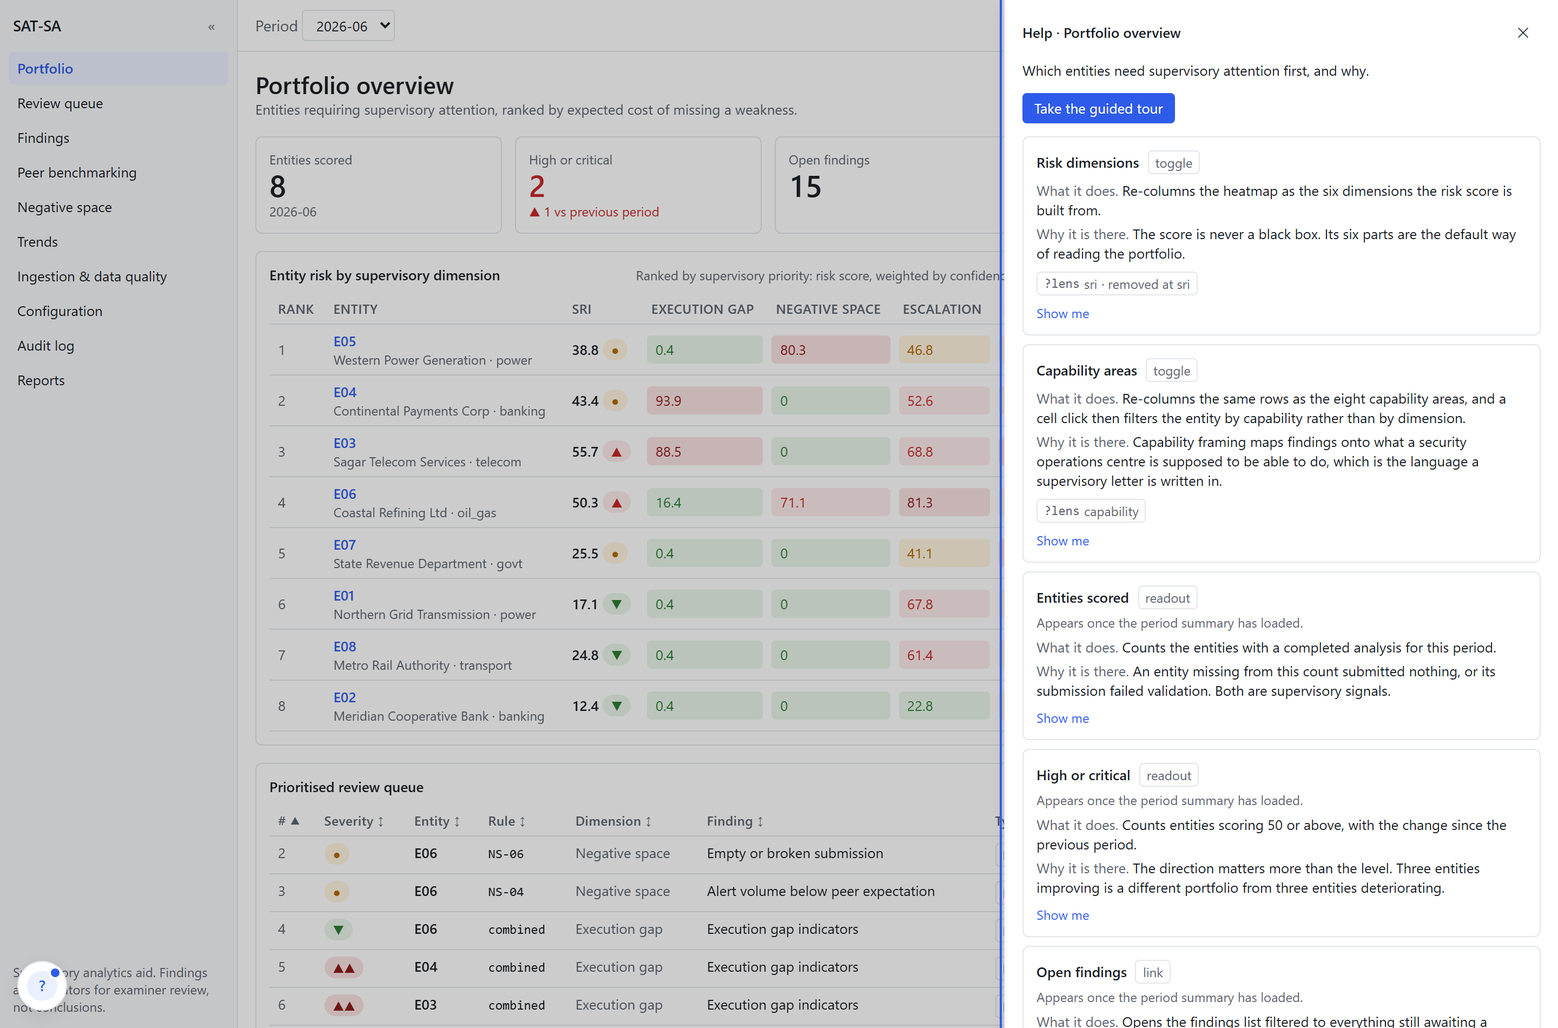
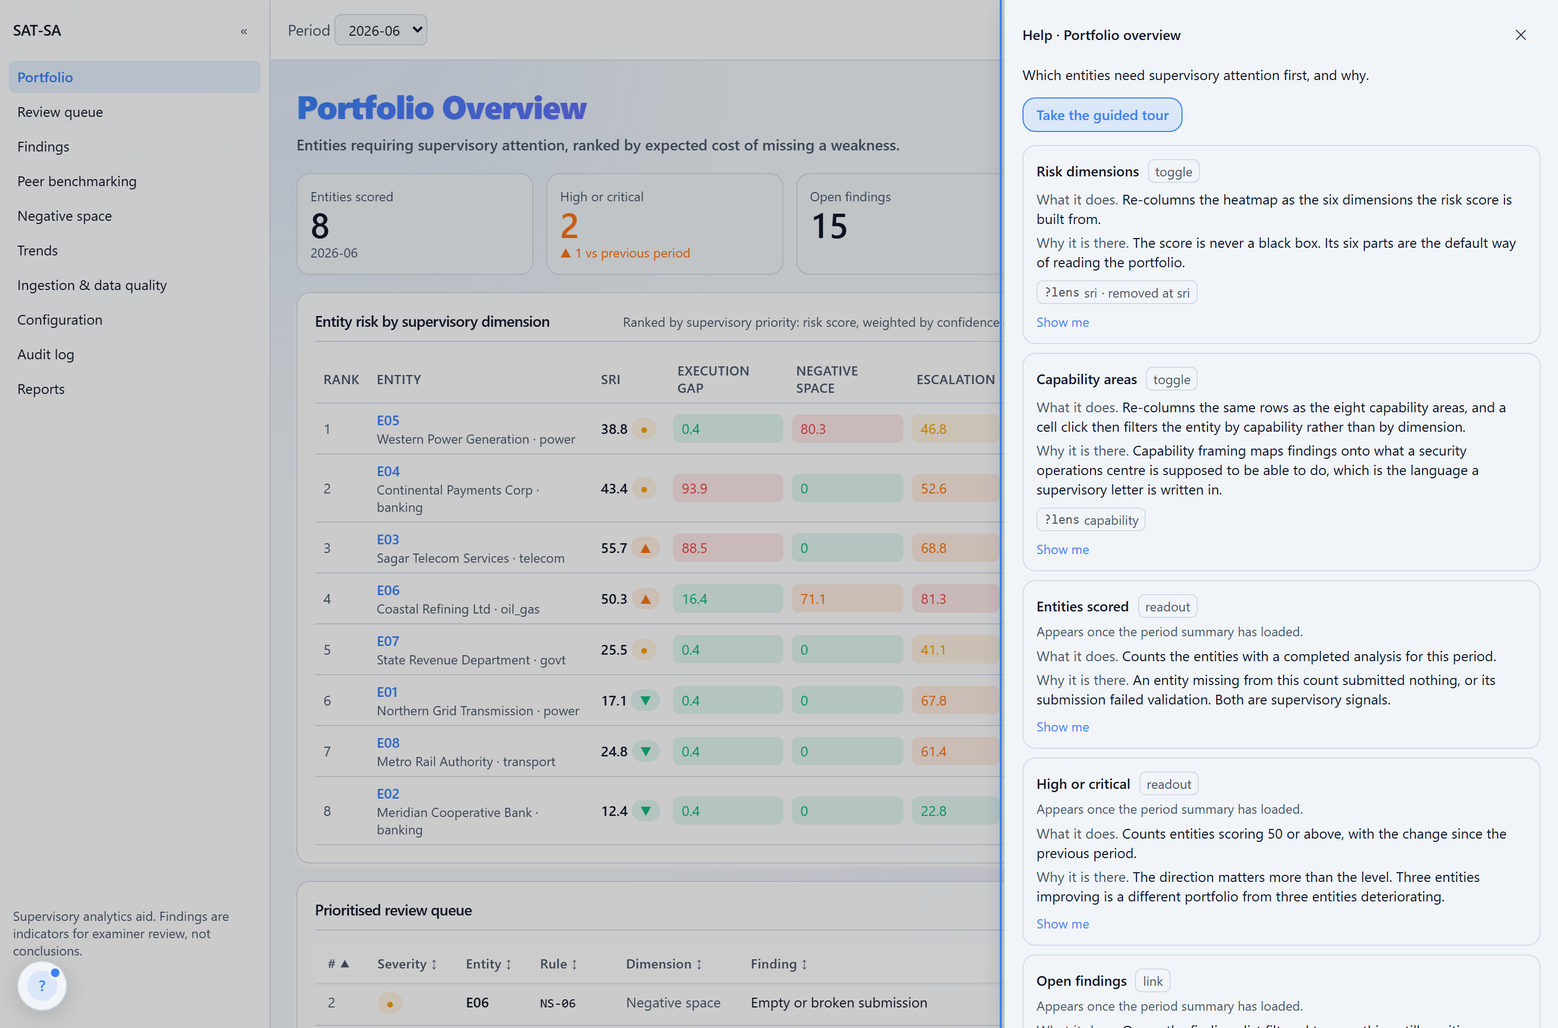
docs: regenerate every screenshot against the redesigned UI  The images predated the glassmorphic redesign, the theme switcher and the light-mode contrast fix, so all fourteen are re-shot from the running application.  Two defects surfaced while re-shooting, both fixed:  - Back stranded you when the

diff --git a/dashboard/src/guide/tours.ts b/dashboard/src/guide/tours.ts
@@ -60,35 +60,35 @@ export const TOURS: readonly TourDefinition[] = [
       // ---- portfolio -----------------------------------------------------------------
       {
         anchor: "global.period",
-        title: "Everything belongs to a period",
-        body: "Entities submit their records on a cycle, and the whole screen answers for one of them. This selector is global: it follows you between screens, so any two screens are always about the same submission.",
-        note: "It writes the period into the address bar rather than into component state, so every view is a shareable link and the browser back button works.",
+        title: "Time Period",
+        body: "Every piece of data belongs to a specific month or quarter.",
+        note: "This drop-down stays with you as you move around. Change it here, and the whole app instantly travels to that time period.",
         routePattern: "/portfolio",
         before: [{ type: "navigate", to: "/portfolio" }],
         prefer: ["bottom"],
       },
       {
         anchor: "portfolio.heatmap",
-        title: "Who needs attention first",
-        body: "One row per entity, ordered by supervisory priority rather than by raw score, with a cell per risk dimension. Every cell prints its number as well as its colour.",
-        note: "Priority combines the risk score with the confidence in it and with how much the entity matters by sector and size, so a high score computed from thin data ranks below a moderate one computed from full data.",
+        title: "Who needs help first?",
+        body: "This shows a list of companies. The ones at the top have the biggest security problems.",
+        note: "We rank them by how sure we are about the problem, not just raw scores. A huge problem with solid proof goes to the very top.",
         routePattern: "/portfolio",
         onMissing: "skip",
         prefer: ["top"],
       },
       {
         anchor: "portfolio.lens-capability",
-        title: "Two ways to read the same portfolio",
-        body: "The columns are the six dimensions of the risk score by default. Switch to capability areas and the same entities are re-columned into what a security operations centre is supposed to be able to do.",
-        note: "Every rule is mapped to both a risk dimension and a capability area, so one set of findings supports both framings without recomputing anything.",
+        title: "Two ways to look",
+        body: "You can view these scores by 'Risk Category' or by 'Security Capability'.",
+        note: "Just toggle this button to see the exact same data from a different perspective, without reloading anything.",
         routePattern: "/portfolio",
         prefer: ["bottom", "left"],
       },
       {
         anchor: "portfolio.tile-uncertain",
-        title: "The decisions the tool refuses to make",
-        body: "Findings whose probability lands inside the band around the decision threshold are never decided automatically. This count is the honest measure of how much examiner time the period needs.",
-        note: "The threshold comes from what the two mistakes cost, false-positive cost over the sum of both costs, with a fixed band either side of it. Anything inside that band is routed to a human by design.",
+        title: "Borderline cases",
+        body: "Sometimes the AI isn't 100% sure. We call these 'Uncertain' cases.",
+        note: "Instead of guessing, the system flags these borderline cases so a human expert can look at them closely.",
         routePattern: "/portfolio",
         onMissing: "skip",
         prefer: ["bottom"],
@@ -97,9 +97,9 @@ export const TOURS: readonly TourDefinition[] = [
       // ---- entity --------------------------------------------------------------------
       {
         anchor: "entity.sri-table",
-        title: "The score, taken apart",
-        body: "Score, weight and contribution for each dimension, adding up to the total in the heading. You can check the arithmetic by hand. Clicking a row filters the findings below to that dimension.",
-        note: "A plain weighted sum, deliberately, so no part of the headline number is hidden inside a model. The weights live in configuration and are hashed into every run that uses them.",
+        title: "How the score is made",
+        body: "This breaks down exactly how we calculated the final risk score for this company.",
+        note: "We don't hide the math! You can see all the weights and scores adding up perfectly right here.",
         routePattern: "/entities/:entityId",
         before: [{ type: "click", anchor: "portfolio.heatmap-cell" }],
         onMissing: "wait",
@@ -107,9 +107,9 @@ export const TOURS: readonly TourDefinition[] = [
       },
       {
         anchor: "entity.peer-chart",
-        title: "Compared with its peers",
-        body: "Where this entity sits among comparable entities for the chosen metric. A raw value means little on its own; its position among peers is the supervisory question.",
-        note: "Peers are the same sector and size band, widening to sector then to the whole portfolio when too few exist. Comparisons use the median and median absolute deviation, so one outlier cannot move the baseline it is judged against.",
+        title: "Grading on a curve",
+        body: "A score doesn't mean much on its own. This chart shows how this company compares to similar companies.",
+        note: "If a company is doing badly, but everyone else in their industry is also doing badly, you'll see that context here.",
         routePattern: "/entities/:entityId",
         onMissing: "skip",
         prefer: ["left", "bottom"],
@@ -118,13 +118,11 @@ export const TOURS: readonly TourDefinition[] = [
       // ---- finding -------------------------------------------------------------------
       {
         anchor: "finding.threshold",
-        title: "A decision is a position on a line",
-        body: "The threshold, the band handed to a human, and this finding's probability marked on it, so you can see how close to the boundary it fell.",
-        note: "Cost-derived rather than tuned. Missing a real weakness is costed higher than an unnecessary review, which pushes the threshold down and makes the tool favour catching things.",
+        title: "The decision line",
+        body: "This line shows exactly why a problem was flagged.",
+        note: "If a dot lands far to the right, it's a huge problem. If it lands near the middle band, we ask a human to double-check it.",
         routePattern: "/findings/:findingId",
         before: [
-          // The heatmap cell arrives with a dimension filter set, which can leave the
-          // findings table empty. Clear it before asking for the top row.
           { type: "setParam", key: "dimension" },
           { type: "setParam", key: "capability" },
           { type: "click", anchor: "entity.findings-first-row" },
@@ -134,18 +132,18 @@ export const TOURS: readonly TourDefinition[] = [
       },
       {
         anchor: "finding.tab-records",
-        title: "Down to the actual alerts",
-        body: "Portfolio, entity, finding, and here are the individual records underneath the claim, each traceable to the line it came from in the submitted file.",
-        note: "Findings store the alert ids they rest on, and every ingested row keeps its source line number, so nothing is asserted that cannot be traced back.",
+        title: "Show me the proof",
+        body: "Don't just trust the AI! Click here to see the raw, original logs submitted by the company.",
+        note: "Every single claim the system makes can be traced back to these exact log files.",
         routePattern: "/findings/:findingId",
         interactive: true,
         prefer: ["bottom"],
       },
       {
         anchor: "finding.feedback",
-        title: "The examiner decides, and the tool learns",
-        body: "Accept, reject or defer with a comment. The tool is an aid, not an authority.",
-        note: "Decisions are appended and never overwritten, so the record shows what was thought and when. They are also the labels that calibrate raw model scores into probabilities.",
+        title: "You are the boss",
+        body: "Do you disagree with the AI? Tell it by clicking Reject.",
+        note: "When you reject a finding, the system actually learns from your choice so it won't make the same mistake next month.",
         routePattern: "/findings/:findingId",
         prefer: ["top", "bottom"],
       },
@@ -153,9 +151,9 @@ export const TOURS: readonly TourDefinition[] = [
       // ---- queue ---------------------------------------------------------------------
       {
         anchor: "queue.table",
-        title: "What to examine next",
-        body: "Alerts selected for manual inspection, in rank order, with the rules that flagged each one.",
-        note: "Ranked by expected cost, the probability multiplied by the cost of missing it, so the top of the list is where the next hour of examiner time pays back most. Sampling is round-robin across rules, so every kind of weakness is represented rather than the loudest one filling the list.",
+        title: "Your To-Do List",
+        body: "This is a prioritized list of exact alerts you need to review manually.",
+        note: "The most important and borderline cases are pushed to the very top so you don't waste time on obvious stuff.",
         routePattern: "/queue",
         before: [{ type: "navigate", to: "/queue" }],
         onMissing: "skip",
@@ -163,9 +161,9 @@ export const TOURS: readonly TourDefinition[] = [
       },
       {
         anchor: "queue.scope-control",
-        title: "Entities, alerts, or processes",
-        body: "The same queue at three grains. Controls and processes groups findings by the control they implicate and sums the expected cost of each group.",
-        note: "Often the most useful supervisory output is not an entity but a process: one control failing across several entities at once.",
+        title: "Zoom out",
+        body: "You can view your To-Do list by individual alerts, or group them by Companies and Processes.",
+        note: "Sometimes seeing that a specific process is failing across five different companies is the most useful insight.",
         routePattern: "/queue",
         prefer: ["bottom"],
       },
@@ -173,9 +171,9 @@ export const TOURS: readonly TourDefinition[] = [
       // ---- peer ----------------------------------------------------------------------
       {
         anchor: "peer.chart",
-        title: "The whole peer group at once",
-        body: "Every entity in the group plotted for one metric, with the median and the tenth to ninetieth percentile band, and the selected entity marked.",
-        note: "The line underneath names which peer group was used and how it was chosen, because a comparison against three peers is worth less than one against thirty and should not be able to hide that.",
+        title: "The Big Picture",
+        body: "See how an entire industry is performing at a single glance.",
+        note: "The selected company is highlighted so you can see exactly where they sit compared to their peers.",
         routePattern: "/peer",
         before: [{ type: "navigate", to: "/peer" }],
         onMissing: "skip",
@@ -185,9 +183,9 @@ export const TOURS: readonly TourDefinition[] = [
       // ---- coverage ------------------------------------------------------------------
       {
         anchor: "coverage.matrix",
-        title: "Evidence that should be there and is not",
-        body: "One row per entity, one column per expected item. Absent cells are hatched and labelled, never colour alone. The totals down the right and along the bottom are the point.",
-        note: "This is the harder half of the problem. An execution gap leaves bad records behind, but negative space leaves nothing on screen to look at. Expectation is derived from the entity's own asset inventory, from its sector, and from what its peers actually report.",
+        title: "What is missing?",
+        body: "This looks for alerts that SHOULD exist, but don't. Missing cells are marked with lines.",
+        note: "If a bank has servers but reports zero server alerts all month, this page will catch that silence.",
         routePattern: "/coverage",
         before: [{ type: "navigate", to: "/coverage" }],
         onMissing: "skip",
@@ -197,9 +195,9 @@ export const TOURS: readonly TourDefinition[] = [
       // ---- trends --------------------------------------------------------------------
       {
         anchor: "trends.sri-chart",
-        title: "Movement across periods",
-        body: "Risk over successive submissions, per entity, against the dashed sector median.",
-        note: "One period is a snapshot. A weakness that appears and then persists is a different matter from a single bad month, and against a rising median a flat entity is falling behind.",
+        title: "Getting better or worse?",
+        body: "This chart tracks a company's risk over many months.",
+        note: "A single bad month is okay, but a line that keeps going up means the company is slowly falling apart.",
         routePattern: "/trends",
         before: [{ type: "navigate", to: "/trends" }],
         onMissing: "skip",
@@ -209,9 +207,9 @@ export const TOURS: readonly TourDefinition[] = [
       // ---- ingestion -----------------------------------------------------------------
       {
         anchor: "ingestion.submissions",
-        title: "Dirty data is itself a finding",
-        body: "Every submission with its format, row counts and error and warning rates. A row expands to show which checks fired and on which rows.",
-        note: "Thirteen validation checks run on ingest and their results are recorded rather than merely rejected. The error and warning rates become features, because an entity that cannot produce clean records is telling you something about its operation.",
+        title: "Messy data is a red flag",
+        body: "If a company submits broken or sloppy data, we don't throw it away.",
+        note: "We actually penalize them for it! You can see exactly how many errors their files had right here.",
         routePattern: "/ingestion",
         before: [{ type: "navigate", to: "/ingestion" }],
         onMissing: "skip",
@@ -219,9 +217,9 @@ export const TOURS: readonly TourDefinition[] = [
       },
       {
         anchor: "ingestion.run",
-        title: "Batch, and only when asked",
-        body: "Starts the analysis for the selected period and reports each stage as it completes.",
-        note: "There is no scheduler and no continuous collection anywhere in the tool. That is the boundary between supervising a security operations centre and operating one. Re-running on unchanged inputs is skipped rather than repeated, because the pipeline is idempotent.",
+        title: "Run the math",
+        body: "Click here to process all the new data and generate fresh scores.",
+        note: "The system only runs when you tell it to. It will analyze millions of alerts in just a few seconds.",
         routePattern: "/ingestion",
         prefer: ["bottom", "left"],
       },
@@ -229,9 +227,9 @@ export const TOURS: readonly TourDefinition[] = [
       // ---- config --------------------------------------------------------------------
       {
         anchor: "config.cost-cfn",
-        title: "Change the posture, not the thresholds",
-        body: "Set what it costs to miss a real weakness and the decision threshold recomputes as you type, with the band redrawn on the line below.",
-        note: "This is where the caution actually comes from. Because the threshold is derived from the two costs rather than picked by hand, a change in supervisory posture is one number instead of a retuning exercise. Preview shows the effect on every entity before anything is saved.",
+        title: "Change how strict the AI is",
+        body: "Want the system to be more aggressive or more relaxed? Adjust the slider here.",
+        note: "This changes the math everywhere immediately, without needing to reload or retrain anything.",
         routePattern: "/config",
         before: [{ type: "navigate", to: "/config" }],
         onMissing: "explain",
@@ -239,9 +237,9 @@ export const TOURS: readonly TourDefinition[] = [
       },
       {
         anchor: "config.rules",
-        title: "Rules first, model second",
-        body: "All nineteen rules with the control and capability each maps to, its parameters, and a checkbox to disable it.",
-        note: "Every rule is readable here with the exact thresholds it uses, which is what makes a finding arguable rather than merely asserted. The model only ever adjusts a probability; it never raises a finding without a rule or a template behind it.",
+        title: "The Brain",
+        body: "These are the 19 hard-coded rules the system uses to catch bad security practices.",
+        note: "You can see the exact logic behind every rule, and even turn them off if you want.",
         routePattern: "/config",
         prefer: ["top"],
       },
@@ -249,9 +247,9 @@ export const TOURS: readonly TourDefinition[] = [
       // ---- audit ---------------------------------------------------------------------
       {
         anchor: "audit.verify",
-        title: "Prove the record was not altered",
-        body: "Recomputes every run hash from the one before it and reports either that the chain is intact or the first run where it breaks.",
-        note: "Each run's hash covers the previous run's hash, so changing any past record breaks every hash after it. This is the answer to how a finding can be defended months later.",
+        title: "Tamper-proof records",
+        body: "Click Verify to mathematically prove that no one has secretly changed the data.",
+        note: "Every action is cryptographically locked into a chain. If someone edits a database row behind your back, this button will catch them.",
         routePattern: "/audit",
         before: [{ type: "navigate", to: "/audit" }],
         prefer: ["bottom", "left"],
@@ -260,9 +258,9 @@ export const TOURS: readonly TourDefinition[] = [
       // ---- reports -------------------------------------------------------------------
       {
         anchor: "reports.entity-pdf",
-        title: "Getting it out of the tool",
-        body: "A document with the scorecard arithmetic, every finding with its rationale, the alerts selected for review, and the feedback recorded so far.",
-        note: "Each export records the code, configuration and model versions that produced it, so the document is self-contained and a reader without access to the tool can still follow the reasoning.",
+        title: "Take it with you",
+        body: "Export all these beautiful charts and findings into a PDF report.",
+        note: "The PDF includes digital fingerprints showing exactly what version of the tool was used to create it.",
         routePattern: "/reports",
         before: [{ type: "navigate", to: "/reports" }],
         prefer: ["bottom", "top"],

diff --git a/dashboard/src/guide/components/TourController.tsx b/dashboard/src/guide/components/TourController.tsx
@@ -45,6 +45,10 @@ export function TourController() {
   // navigates, which re-runs the effect, and without this the tour would click again or
   // wait pointlessly for a control that only existed on the previous screen.
   const doneActions = useRef<Set<string>>(new Set());
+  // The concrete path each step resolved on. Steps that live on a record-specific route, such
+  // as /findings/:findingId, cannot be reached from their pattern, so Back returns to the URL
+  // the tour actually used on the way forward.
+  const visitedPath = useRef<Map<number, string>>(new Map());
 
   const tour = tourId && tourId !== "__single" ? TOUR_BY_ID.get(tourId) : undefined;
   const step: TourStep | undefined = tour?.steps[stepIndex];
@@ -79,6 +83,7 @@ export function TourController() {
       setNavCollapsedAtStart(null);
       endTour(reason);
       doneActions.current.clear();
+      visitedPath.current.clear();
       setSingleAnchor(null);
       setRect(null);
       navigate({ pathname, search: withSearch(params, { tour: undefined }) }, { replace: true });
@@ -139,6 +144,21 @@ export function TourController() {
         if (ui.navCollapsed) ui.toggleNav();
       }
 
+      // A step always lands on its own route. Going Back from a later screen would otherwise
+      // leave the previous step stranded on the wrong page, because only some steps carry an
+      // explicit navigate action. Patterns with a :param cannot be resolved to a URL, so those
+      // still rely on their before actions and fall through to the off-route popup.
+      if (step && !matchPath({ path: step.routePattern, end: true }, pathname)) {
+        const target = isResolvedRoute(step.routePattern) ? step.routePattern : visitedPath.current.get(stepIndex);
+        if (target) {
+          navigate(
+            { pathname: target, search: withSearch(params, { tour: formatTourParam(tourId!, stepIndex) }) },
+            { replace: true },
+          );
+          return; // the navigation re-runs this effect
+        }
+      }
+
       for (const action of step?.before ?? []) {
         if (cancelled) return;
         if (action.type === "navigate" && !matchPath({ path: action.to, end: true }, pathname)) {
@@ -191,6 +211,7 @@ export function TourController() {
       }
 
       el.scrollIntoView({ block: "center", inline: "nearest", behavior: reduced ? "auto" : "smooth" });
+      if (step) visitedPath.current.set(stepIndex, pathname);
       setRect(rectOf(el));
     };
 

diff --git a/dashboard/src/guide/content.ts b/dashboard/src/guide/content.ts
@@ -58,6 +58,13 @@ export const GUIDE: readonly GuideScreen[] = [
         concepts: ["provenance-chain"],
       },
       {
+        id: "theme",
+        label: "Toggle theme",
+        kind: "button",
+        does: "Switches between the light and dark palette, and remembers the choice for next time.",
+        demonstrates: "Supervisory review happens in daylight offices and in operations centres. Both palettes carry the same risk colours at the same meanings, so a finding reads identically either way.",
+      },
+      {
         id: "help",
         label: "Help for this screen",
         kind: "button",

diff --git a/dashboard/src/components/ui/ThemeToggle.tsx b/dashboard/src/components/ui/ThemeToggle.tsx
@@ -33,6 +33,7 @@ export function ThemeToggle() {
   return (
     <button
       type="button"
+      data-guide="global.theme"
       onClick={cycleTheme}
       className="flex h-8 w-8 items-center justify-center rounded-md border border-border bg-surface text-muted backdrop-blur transition-all duration-200 hover:bg-surface hover:text-text hover:shadow-sm active:scale-95 focus:outline-none focus:ring-2 focus:ring-accent"
       title={`Theme: ${theme} (Click to change)`}

diff --git a/dashboard/src/app/AppShell.tsx b/dashboard/src/app/AppShell.tsx
@@ -65,7 +65,7 @@ export function AppShell() {
           ))}
         </ul>
         {!collapsed && (
-          <div className="mt-auto p-3 text-xs text-muted">
+          <div className="mt-auto p-3 pb-16 text-xs text-muted">
             <p>Supervisory analytics aid. Findings are indicators for examiner review, not conclusions.</p>
           </div>
         )}

diff --git a/docs/walkthrough.md b/docs/walkthrough.md
@@ -176,6 +176,8 @@ Present on every screen:
 - **Provenance chip**, top right: `v0.1.0 · code e65f0806 · config 677c7fee · last run …`.
   Click it to jump to the audit log. This is the answer to "which version produced what I am
   looking at", visible without asking.
+- **Theme toggle**, top right, switching between the light and dark palette and remembering
+  the choice. Both palettes carry the same risk colours at the same meanings.
 - **Help button** (`?`), top right beside the provenance chip, or `Shift` + `/` from
   anywhere outside a text field. Opens a panel describing every control on the screen you are
   currently looking at.
